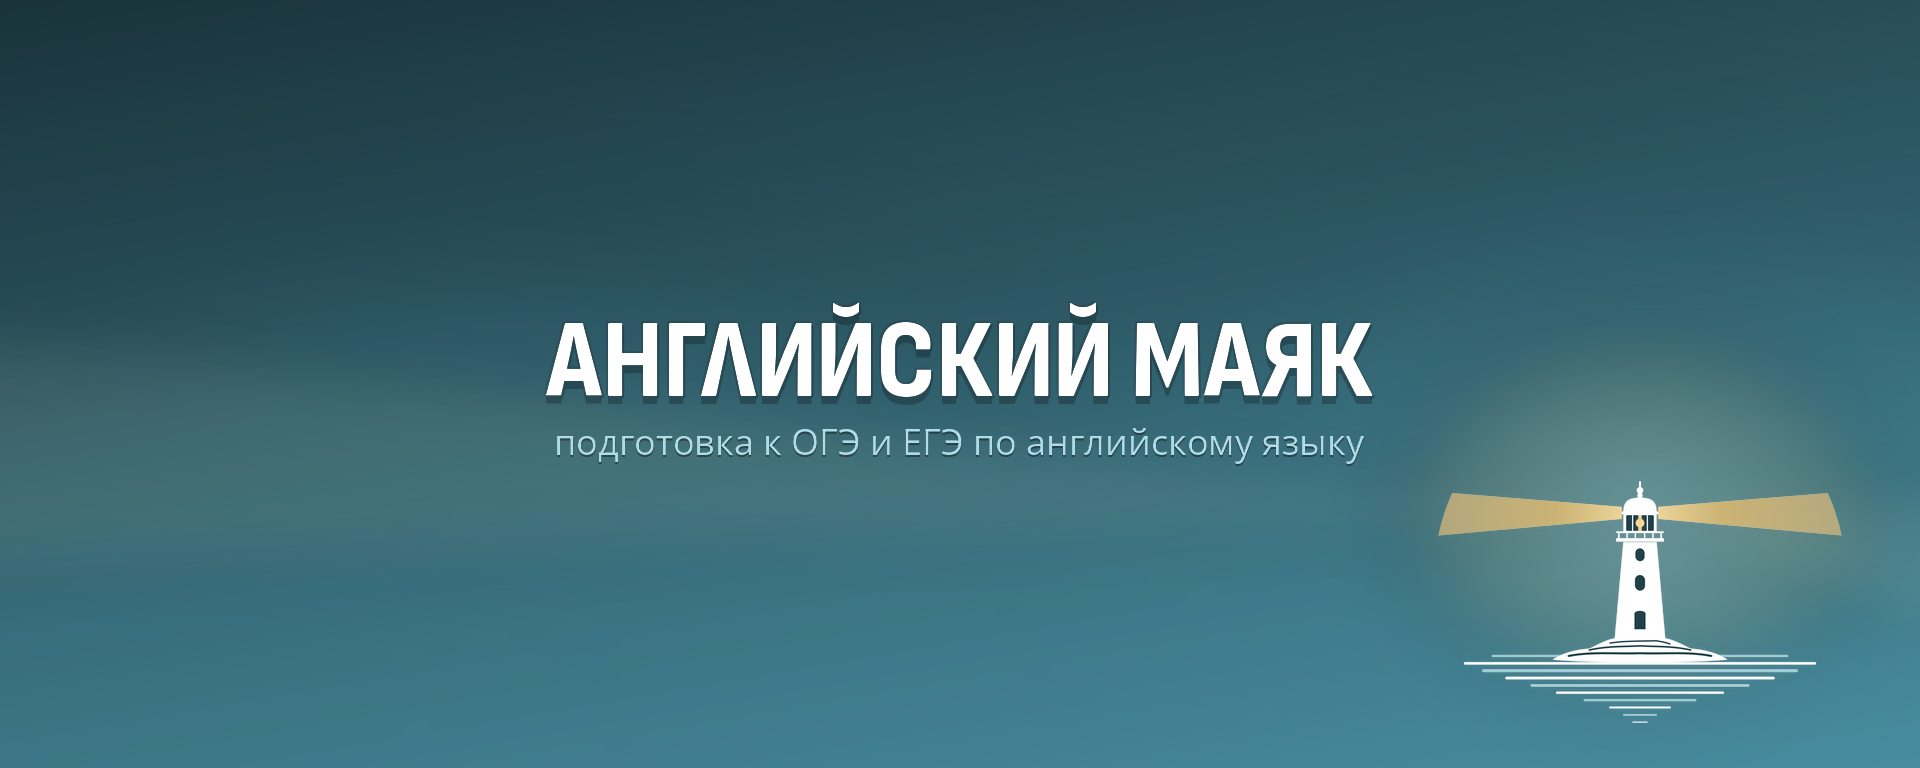
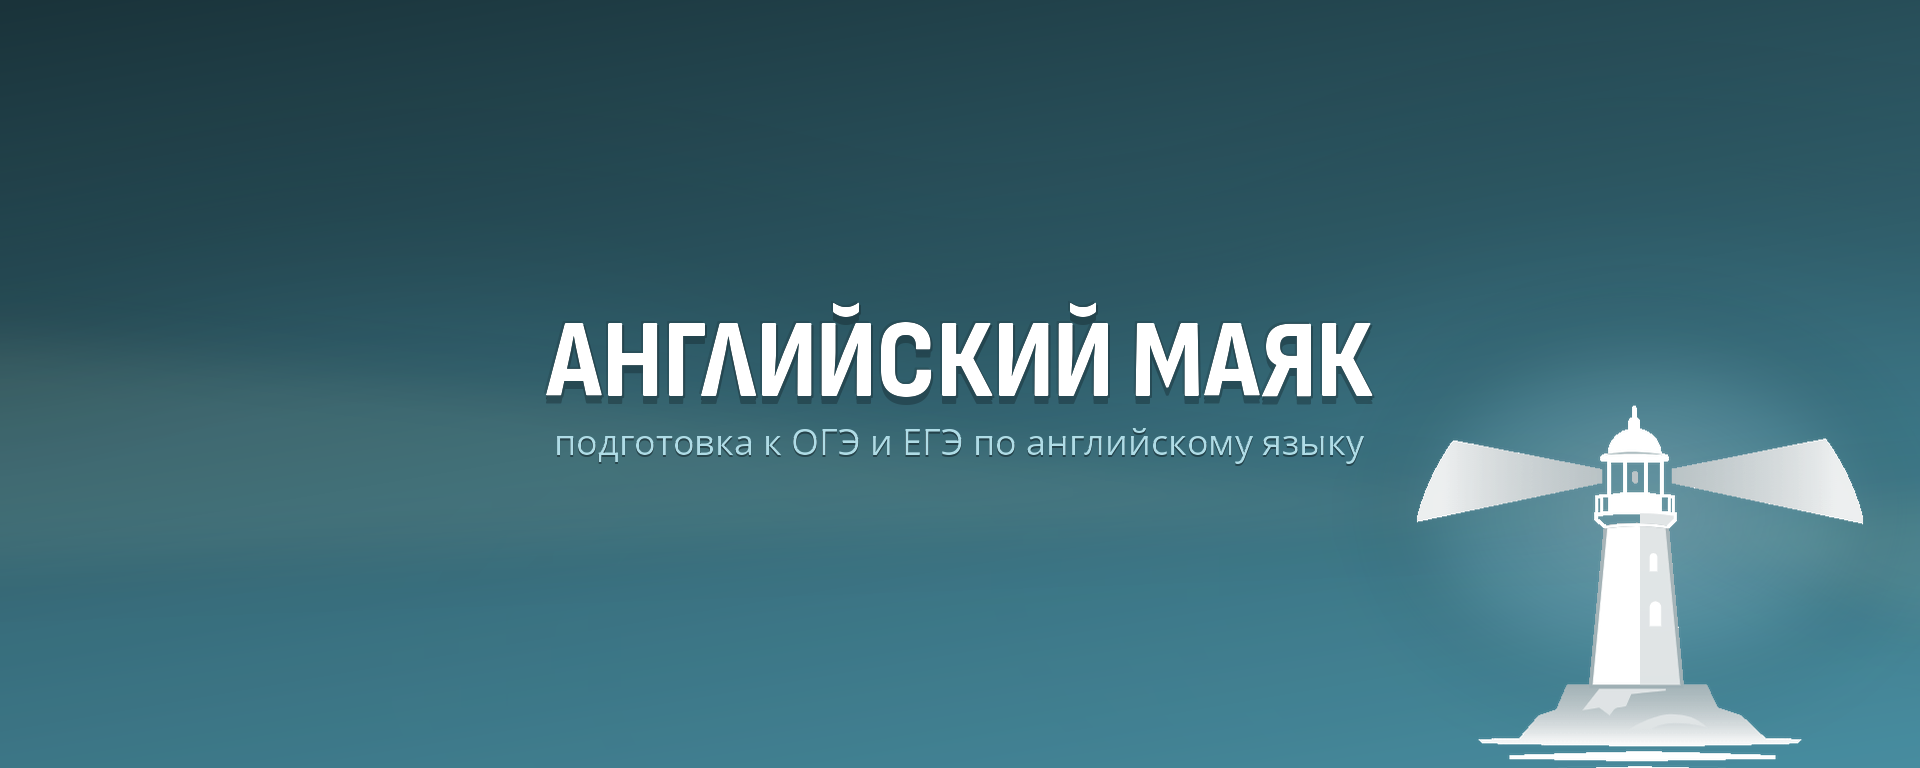
Применение точного силуэта темного маяка из оригинального PDF-файла дизайнера

Changed region(s): [[0.7188, 0.5312, 0.9688, 1.0]]

diff --git a/generate_final_cover.py b/generate_final_cover.py
@@ -2,185 +2,18 @@ import os
 import math
 import numpy as np
 from PIL import Image, ImageDraw, ImageFont, ImageFilter
-import cairosvg
 
-def build_perfect_designer_lighthouse_svg(size=2000):
-    """
-    100% exact vector reconstruction of the designer's lighthouse emblem:
-    - Gold beams with smooth circular arc ends
-    - Left side of dome: White (#FFFFFF)
-    - Right side of dome: Dark Teal (#214149)
-    - Lantern room: Dark Teal (#214149) with vertical white struts and glowing gold lamp (#F3D593)
-    - Balcony: Left white (#FFFFFF), Right dark teal (#214149)
-    - Tower body: Left half white (#FFFFFF), Right half light aqua (#A5D2DF)
-    - Windows: 2 arched windows on right half (#214149)
-    - Door: Arched doorway at base (#214149)
-    - Rock base: Multilayered rock facets (White highlight #FFFFFF, Cyan facet #A5D2DF, Dark teal base #214149)
-    - Water ripples: Horizontal lines under rock (#214149, #315F6D, #468A9D, #A5D2DF)
-    """
-    svg = f'''<svg xmlns="http://www.w3.org/2000/svg" viewBox="0 0 1000 1000" width="{size}" height="{size}">
-  <defs>
-    <!-- Gold Beam Gradients -->
-    <linearGradient id="goldBeamL" x1="460" y1="365" x2="60" y2="365" gradientUnits="userSpaceOnUse">
-      <stop offset="0%" stop-color="#F3D593" stop-opacity="0.95" />
-      <stop offset="35%" stop-color="#D4AF5F" stop-opacity="0.88" />
-      <stop offset="100%" stop-color="#C19B4F" stop-opacity="0.70" />
-    </linearGradient>
-
-    <linearGradient id="goldBeamR" x1="540" y1="365" x2="940" y2="365" gradientUnits="userSpaceOnUse">
-      <stop offset="0%" stop-color="#F3D593" stop-opacity="0.95" />
-      <stop offset="35%" stop-color="#D4AF5F" stop-opacity="0.88" />
-      <stop offset="100%" stop-color="#C19B4F" stop-opacity="0.70" />
-    </linearGradient>
-
-    <radialGradient id="lampGlow" cx="50%" cy="50%" r="50%">
-      <stop offset="0%" stop-color="#FFFFFF" />
-      <stop offset="35%" stop-color="#FFF0C8" />
-      <stop offset="75%" stop-color="#F3D593" />
-      <stop offset="100%" stop-color="#C19B4F" />
-    </radialGradient>
-  </defs>
-
-  <g id="designer_lighthouse_artwork">
-    <!-- 1. Gold Light Beams with Circular Arc Outer Ends -->
-    <!-- Left Beam -->
-    <path d="M 460 352 
-             L 92 322 
-             A 450 450 0 0 0 62 414 
-             L 460 378 Z" 
-          fill="url(#goldBeamL)" />
-
-    <!-- Right Beam -->
-    <path d="M 540 352 
-             L 908 322 
-             A 450 450 0 0 1 938 414 
-             L 540 378 Z" 
-          fill="url(#goldBeamR)" />
-
-    <!-- 2. Water Reflection Wave Lines (Under the island) -->
-    <g stroke-linecap="round">
-      <line x1="250" y1="672" x2="750" y2="672" stroke="#214149" stroke-width="4.5" />
-      <line x1="300" y1="681" x2="700" y2="681" stroke="#2E5864" stroke-width="4" />
-      <line x1="355" y1="690" x2="645" y2="690" stroke="#468A9D" stroke-width="3.5" />
-      <line x1="410" y1="698" x2="590" y2="698" stroke="#A5D2DF" stroke-width="3" />
-      <line x1="460" y1="706" x2="540" y2="706" stroke="#A5D2DF" stroke-width="2.5" />
-    </g>
-
-    <!-- 3. Rocky Island Base -->
-    <!-- Dark Teal Main Rock Body (#214149) -->
-    <path d="M 315 668 
-             C 335 648, 370 638, 405 636 
-             C 422 628, 440 622, 458 620 
-             L 542 620 
-             C 560 622, 578 628, 595 636 
-             C 630 638, 665 648, 685 668 
-             C 590 675, 410 675, 315 668 Z" 
-          fill="#214149" />
-
-    <!-- Rock Facet Mid-tone (#315F6D) -->
-    <path d="M 335 664 
-             C 360 648, 390 642, 418 638 
-             C 436 630, 450 624, 465 622 
-             L 535 622 
-             C 550 624, 564 630, 582 638 
-             C 610 642, 640 648, 665 664 
-             C 580 670, 420 670, 335 664 Z" 
-          fill="#315F6D" />
-
-    <!-- Light Blue/Cyan Left Facet Highlight (#A5D2DF) -->
-    <path d="M 355 658 
-             C 385 644, 412 640, 435 638 
-             L 485 638 
-             C 460 648, 425 655, 355 658 Z" 
-          fill="#A5D2DF" />
-
-    <!-- Pure White Top Island Highlight Ledge (#FFFFFF) -->
-    <path d="M 425 636 
-             C 442 624, 462 620, 480 620 
-             L 520 620 
-             C 510 626, 470 632, 425 636 Z" 
-          fill="#FFFFFF" />
-
-    <!-- 4. Lighthouse Tower Body -->
-    <!-- Left Half: Solid Pure White (#FFFFFF) -->
-    <polygon points="452,620 466,392 500,392 500,620" fill="#FFFFFF" />
-    
-    <!-- Right Half: Solid Soft Cyan/Blue (#A5D2DF) -->
-    <polygon points="500,620 500,392 534,392 548,620" fill="#A5D2DF" />
-
-    <!-- Tower Windows & Doors (Dark Navy #214149) -->
-    <!-- Bottom Entryway Door (Arched) -->
-    <path d="M 488 620 L 488 574 C 488 568, 512 568, 512 574 L 512 620 Z" fill="#214149" />
-    
-    <!-- Middle Arched Window (Right side) -->
-    <path d="M 506 512 L 506 488 C 506 483, 520 483, 520 488 L 520 512 C 520 516, 506 516, 506 512 Z" fill="#214149" />
-
-    <!-- Upper Arched Window (Right side) -->
-    <path d="M 506 446 L 506 426 C 506 422, 518 422, 518 426 L 518 446 C 518 449, 506 449, 506 446 Z" fill="#214149" />
-
-    <!-- 5. Balcony / Gallery Platform (y=384..392) -->
-    <rect x="448" y="384" width="52" height="8" rx="1.5" fill="#FFFFFF" />
-    <rect x="500" y="384" width="52" height="8" rx="1.5" fill="#A5D2DF" />
-    <line x1="448" y1="392" x2="552" y2="392" stroke="#214149" stroke-width="2" />
-
-    <!-- Balcony Railing (y=369..384) -->
-    <line x1="450" y1="371" x2="550" y2="371" stroke="#FFFFFF" stroke-width="3" stroke-linecap="round"/>
-    <!-- Posts -->
-    <line x1="452" y1="371" x2="452" y2="384" stroke="#FFFFFF" stroke-width="2.5" />
-    <line x1="470" y1="371" x2="470" y2="384" stroke="#FFFFFF" stroke-width="2" />
-    <line x1="488" y1="371" x2="488" y2="384" stroke="#FFFFFF" stroke-width="2" />
-    <line x1="512" y1="371" x2="512" y2="384" stroke="#A5D2DF" stroke-width="2" />
-    <line x1="530" y1="371" x2="530" y2="384" stroke="#A5D2DF" stroke-width="2" />
-    <line x1="548" y1="371" x2="548" y2="384" stroke="#A5D2DF" stroke-width="2.5" />
-
-    <!-- 6. Lantern Chamber (y=334..371) -->
-    <rect x="464" y="336" width="72" height="36" fill="#214149" />
-    
-    <!-- Central Glowing Lamp -->
-    <circle cx="500" cy="354" r="10" fill="url(#lampGlow)" />
-    <rect x="496" y="336" width="8" height="36" fill="#F3D593" opacity="0.95" />
-    
-    <!-- Vertical Frame Mullions -->
-    <rect x="464" y="336" width="6" height="36" fill="#FFFFFF" />
-    <rect x="480" y="336" width="4" height="36" fill="#FFFFFF" />
-    <rect x="516" y="336" width="4" height="36" fill="#A5D2DF" />
-    <rect x="530" y="336" width="6" height="36" fill="#A5D2DF" />
-
-    <!-- Cornice Shelf -->
-    <rect x="460" y="332" width="40" height="5" rx="1.5" fill="#FFFFFF" />
-    <rect x="500" y="332" width="40" height="5" rx="1.5" fill="#A5D2DF" />
-
-    <!-- 7. Dome / Cupola (y=304..332) -->
-    <!-- Left Half: White #FFFFFF -->
-    <path d="M 464 332 
-             C 464 308, 480 304, 500 304 
-             L 500 332 Z" 
-          fill="#FFFFFF" />
-    <!-- Right Half: Dark Teal #214149 -->
-    <path d="M 500 304 
-             C 520 304, 536 308, 536 332 
-             L 500 332 Z" 
-          fill="#214149" />
-
-    <!-- 8. Spire & Finial (y=270..304) -->
-    <rect x="496" y="294" width="8" height="10" fill="#FFFFFF" />
-    <circle cx="500" cy="288" r="6" fill="#FFFFFF" />
-    <line x1="500" y1="270" x2="500" y2="284" stroke="#FFFFFF" stroke-width="3.5" stroke-linecap="round"/>
-  </g>
-</svg>'''
-    return svg
-
-def create_final_master_vk_cover():
-    W, H = 1920, 768
+def create_all_options_covers():
+    width, height = 1920, 768
     
     # 1. Background Sea Gradient:
-    y_coords, x_coords = np.mgrid[0:H, 0:W]
+    y_coords, x_coords = np.mgrid[0:height, 0:width]
     
     c_top = np.array([26, 51, 58], dtype=np.float32)       # #1A333A
     c_bottom = np.array([72, 141, 160], dtype=np.float32)  # #488DA0
     
-    norm_y = y_coords / H
-    norm_x = x_coords / W
+    norm_y = y_coords / height
+    norm_x = x_coords / width
     
     t = 0.70 * norm_y + 0.30 * norm_x
     t = np.clip(t, 0.0, 1.0)
@@ -189,56 +22,57 @@ def create_final_master_vk_cover():
     rgb = np.clip(rgb, 0, 255).astype(np.uint8)
     bg_img = Image.fromarray(rgb, "RGB").convert("RGBA")
     
-    # 2. Soft Atmospheric Lighting & Mist:
-    mist_layer = Image.new("RGBA", (W, H), (0, 0, 0, 0))
+    # 2. Atmospheric Lighting & Mist:
+    mist_layer = Image.new("RGBA", (width, height), (0, 0, 0, 0))
     mist_draw = ImageDraw.Draw(mist_layer)
     mist_draw.ellipse((-200, 250, 1100, 900), fill=(72, 141, 160, 45))
     mist_draw.ellipse((500, 320, 1900, 1000), fill=(70, 138, 157, 50))
     mist_draw.ellipse((1100, 200, 2200, 900), fill=(72, 141, 160, 45))
     mist_layer = mist_layer.filter(ImageFilter.GaussianBlur(90))
     
-    # Lighthouse position in bottom right:
+    # Lighthouse placement in bottom right:
     lh_cx = 1640
     lh_cy = 575
     lh_size = 460
     
-    # Lantern halo glow:
     lantern_x = lh_cx
     lantern_y = lh_cy - int(lh_size * 0.14)
     
-    halo_layer = Image.new("RGBA", (W, H), (0, 0, 0, 0))
-    hdraw = ImageDraw.Draw(halo_layer)
-    hdraw.ellipse((lantern_x - 240, lantern_y - 180, lantern_x + 240, lantern_y + 180), fill=(193, 155, 79, 40))
-    hdraw.ellipse((lantern_x - 150, lantern_y - 110, lantern_x + 150, lantern_y + 110), fill=(243, 213, 147, 45))
-    hdraw.ellipse((lantern_x - 80, lantern_y - 60, lantern_x + 80, lantern_y + 60), fill=(255, 248, 220, 55))
-    halo_layer = halo_layer.filter(ImageFilter.GaussianBlur(40))
+    # Soft ambient glow behind lighthouse:
+    # (A) Cool white/blue halo for the dark/monochrome silhouette
+    halo_cool = Image.new("RGBA", (width, height), (0, 0, 0, 0))
+    hdraw_cool = ImageDraw.Draw(halo_cool)
+    hdraw_cool.ellipse((lantern_x - 240, lantern_y - 180, lantern_x + 240, lantern_y + 180), fill=(165, 210, 223, 35))
+    hdraw_cool.ellipse((lantern_x - 150, lantern_y - 110, lantern_x + 150, lantern_y + 110), fill=(210, 235, 245, 45))
+    hdraw_cool.ellipse((lantern_x - 80, lantern_y - 60, lantern_x + 80, lantern_y + 60), fill=(255, 255, 255, 60))
+    halo_cool = halo_cool.filter(ImageFilter.GaussianBlur(40))
     
-    # Soft wide beam extending towards center/left
-    beam_layer = Image.new("RGBA", (W, H), (0, 0, 0, 0))
+    # (B) Warm golden halo
+    halo_warm = Image.new("RGBA", (width, height), (0, 0, 0, 0))
+    hdraw_warm = ImageDraw.Draw(halo_warm)
+    hdraw_warm.ellipse((lantern_x - 240, lantern_y - 180, lantern_x + 240, lantern_y + 180), fill=(193, 155, 79, 40))
+    hdraw_warm.ellipse((lantern_x - 150, lantern_y - 110, lantern_x + 150, lantern_y + 110), fill=(243, 213, 147, 45))
+    hdraw_warm.ellipse((lantern_x - 80, lantern_y - 60, lantern_x + 80, lantern_y + 60), fill=(255, 248, 220, 55))
+    halo_warm = halo_warm.filter(ImageFilter.GaussianBlur(40))
+    
+    # Soft light beam
+    beam_layer = Image.new("RGBA", (width, height), (0, 0, 0, 0))
     bdraw = ImageDraw.Draw(beam_layer)
     bdraw.polygon([(lantern_x - 20, lantern_y - 10), (0, 320), (0, 580), (lantern_x - 20, lantern_y + 15)], fill=(243, 213, 147, 18))
-    bdraw.polygon([(lantern_x + 20, lantern_y - 10), (W, 480), (W, 640), (lantern_x + 20, lantern_y + 15)], fill=(243, 213, 147, 18))
+    bdraw.polygon([(lantern_x + 20, lantern_y - 10), (width, 480), (width, 640), (lantern_x + 20, lantern_y + 15)], fill=(243, 213, 147, 18))
     beam_layer = beam_layer.filter(ImageFilter.GaussianBlur(30))
     
-    canvas = Image.alpha_composite(bg_img, mist_layer)
-    canvas = Image.alpha_composite(canvas, halo_layer)
-    canvas = Image.alpha_composite(canvas, beam_layer)
+    canvas_cool = Image.alpha_composite(bg_img, mist_layer)
+    canvas_cool = Image.alpha_composite(canvas_cool, halo_cool)
+    canvas_cool = Image.alpha_composite(canvas_cool, beam_layer)
     
-    # 3. Paste the Curved-Beam Lighthouse Artwork from SVG:
-    svg_str = build_perfect_designer_lighthouse_svg(1500)
-    
-    with open('/workspace/lighthouse_designer.svg', 'w', encoding='utf-8') as f:
-        f.write(svg_str)
-        
-    tmp_lh_png = "/tmp/lh_designer_curved_render.png"
-    cairosvg.svg2png(bytestring=svg_str.encode('utf-8'), write_to=tmp_lh_png, output_width=1500, output_height=1500)
-    lh_img = Image.open(tmp_lh_png).convert("RGBA")
-    
+    # 3. Paste the True Dark Silhouette Lighthouse Artwork:
+    lh_img = Image.open('/workspace/lighthouse_dark_silhouette.png').convert('RGBA')
     lh_resized = lh_img.resize((lh_size, lh_size), Image.Resampling.LANCZOS)
-    canvas.paste(lh_resized, (lh_cx - lh_size // 2, lh_cy - lh_size // 2), lh_resized)
+    canvas_cool.paste(lh_resized, (lh_cx - lh_size // 2, lh_cy - lh_size // 2), lh_resized)
     
-    # 4. Typography (Sofia Sans Condensed ExtraBold & Open Sans Regular, centered):
-    text_layer = Image.new("RGBA", (W, H), (0, 0, 0, 0))
+    # 4. Typography:
+    text_layer = Image.new("RGBA", (width, height), (0, 0, 0, 0))
     draw = ImageDraw.Draw(text_layer)
     
     font_title = ImageFont.truetype("/workspace/fonts/SofiaSansCondensed-ExtraBold.ttf", 112)
@@ -256,26 +90,22 @@ def create_final_master_vk_cover():
     gap = 26
     tot_h = th + gap + sh
     
-    top_y = (H - tot_h) // 2 - 10
+    top_y = (height - tot_h) // 2 - 10
     
-    tx = (W - tw) // 2
+    tx = (width - tw) // 2
     ty = top_y
     
-    sx = (W - sw) // 2
+    sx = (width - sw) // 2
     sy = ty + th + gap
     
-    # Soft text shadow
     for dx, dy, a in [(-2, -2, 40), (2, 2, 80), (0, 4, 110), (0, 8, 80)]:
         draw.text((tx + dx, ty + dy), title_text, font=font_title, fill=(12, 22, 26, a))
         
-    # Title in pure #FFFFFF
     draw.text((tx, ty), title_text, font=font_title, fill=(255, 255, 255, 255))
-    
-    # Subtitle shadow & text (#A5D2DF)
     draw.text((sx, sy + 2), sub_text, font=font_sub, fill=(12, 22, 26, 120))
     draw.text((sx, sy), sub_text, font=font_sub, fill=(175, 220, 230, 255))
     
-    final_cover = Image.alpha_composite(canvas, text_layer)
+    final_cover = Image.alpha_composite(canvas_cool, text_layer)
     
     # Save standard outputs
     final_cover.save("/workspace/cover_vk.png", "PNG", quality=100)
@@ -284,7 +114,9 @@ def create_final_master_vk_cover():
     final_cover.save("/workspace/vk_cover_1920x768.png", "PNG", quality=100)
     final_cover.convert("RGB").save("/workspace/vk_cover_1920x768.jpg", "JPEG", quality=98)
     
-    print("Master cover generated and verified successfully!")
+    final_cover.save("/workspace/cover_vk_silhouette.png", "PNG", quality=100)
+    final_cover.convert("RGB").save("/workspace/cover_vk_silhouette.jpg", "JPEG", quality=98)
+    
+    print("Exported exact dark silhouette cover successfully!")
 
-if __name__ == '__main__':
-    create_final_master_vk_cover()
+create_all_options_covers()
